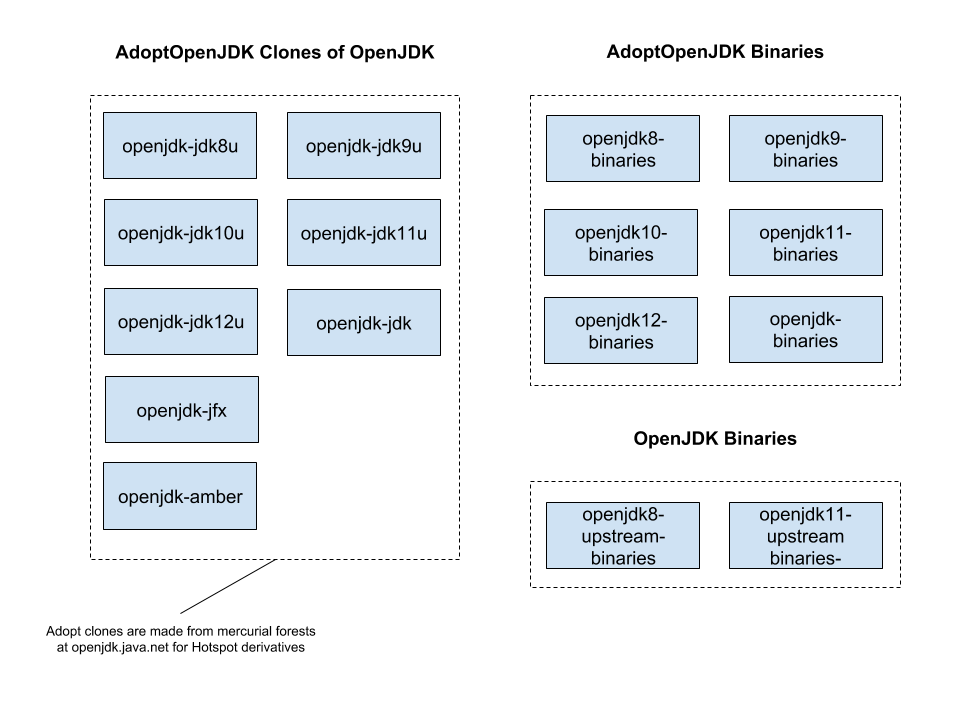
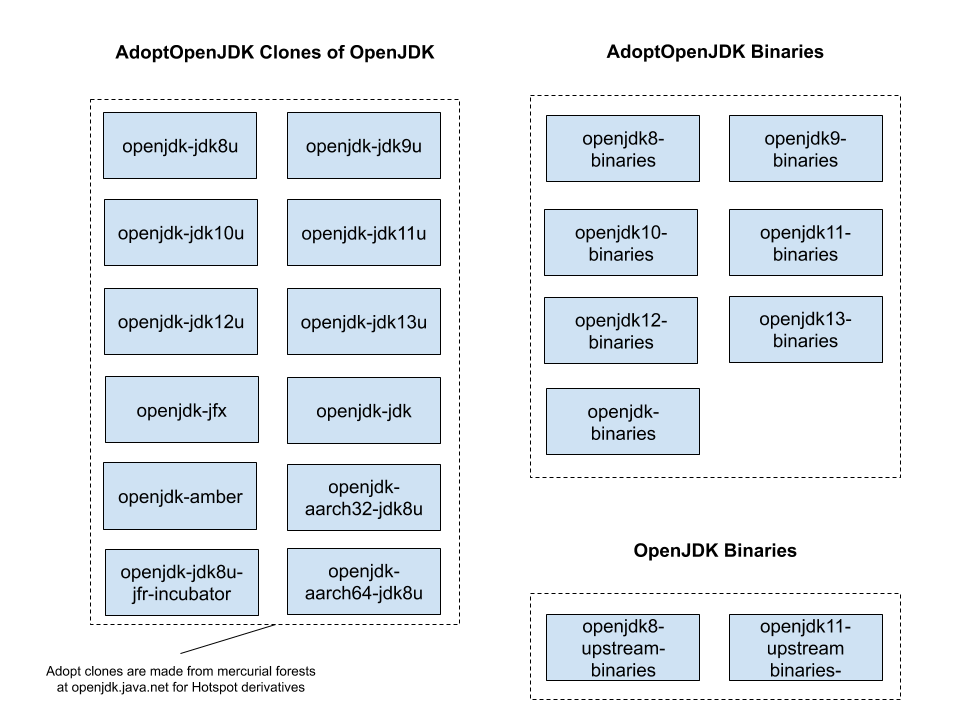
Add new repos (#118)

diff --git a/README.md b/README.md
@@ -51,11 +51,13 @@ changes.)
     * [openjdk-test-tools](https://github.com/AdoptOpenJDK/openjdk-test-tools) - Tools for openjdk testing (not to be confused with [stf](https://github.com/AdoptOpenJDK/stf) which is the tooling for system tests)
     * [openjdk-systemtest](https://github.com/AdoptOpenJDK/openjdk-systemtest) - Code and instructions for system and load testing AdoptOpenJDK Binaries
     * [stf](https://github.com/AdoptOpenJDK/stf) - The System Test Framework, a harness for executing [openjdk-systemtest](https://github.com/AdoptOpenJDK/openjdk-systemtest)
-    * [bumblebench](https://github.com/AdoptOpenJDK/bumblebench) - A microbenchmarking test framework for Adopt OpenJDK
+    * [bumblebench](https://github.com/AdoptOpenJDK/bumblebench) - A micro-benchmarking test framework for AdoptOpenJDK
+    * [TKG](https://github.com/AdoptOpenJDK/TKG) - TestKitGen (TKG) is a lightweight test harness for bringing together a diverse set of tests or commands under some common behaviour.
 * [openjdk-website](https://github.com/AdoptOpenJDK/openjdk-website) - Code and instructions for https://www.adoptopenjdk.net
     * [openjdk-website-next](https://github.com/AdoptOpenJDK/openjdk-website-next) - The Typescript and React re-write for https://www.adoptopenjdk.net
     * [openjdk-api](https://github.com/AdoptOpenJDK/openjdk-api) - Code and instructions for https://api.adoptopenjdk.net
         * [openjdk-api-java-client](https://github.com/AdoptOpenJDK/openjdk-api-java-client) - A Java client for our API
+    * [openjdk-api-v3](https://github.com/AdoptOpenJDK/openjdk-api-v3) - Code and instructions for v3 of the API - https://api.adoptopenjdk.net/swagger-ui/
     * [openjdk-website-backend](https://github.com/AdoptOpenJDK/openjdk-website-backend) - Code for pulling the GitHub releases API into the website
     * [openjdk-dashboard](https://github.com/AdoptOpenJDK/openjdk-dashboard) - AdoptOpenJDK Dashboard for download stats at https://dash.adoptopenjdk.net
 
@@ -72,6 +74,8 @@ When an OpenJDK variant is mercurial based or AdoptOpenJDK needs to maintain its
 
 * [openjdk-jdk8u](https://github.com/AdoptOpenJDK/openjdk-jdk8u)
 * [openjdk-aarch64-jdk8u](https://github.com/AdoptOpenJDK/openjdk-aarch64-jdk8u)
+* [openjdk-aarch32-jdk8u](https://github.com/AdoptOpenJDK/openjdk-aarch32-jdk8u)
+* [openjdk-jdk8u-jfr-incubator](https://github.com/AdoptOpenJDK/openjdk-jdk8u-jfr-incubator)
 * [openjdk-jdk9u](https://github.com/AdoptOpenJDK/openjdk-jdk9u)
 * [openjdk-jdk10u](https://github.com/AdoptOpenJDK/openjdk-jdk10u)
 * [openjdk-jdk11u](https://github.com/AdoptOpenJDK/openjdk-jdk11u)
